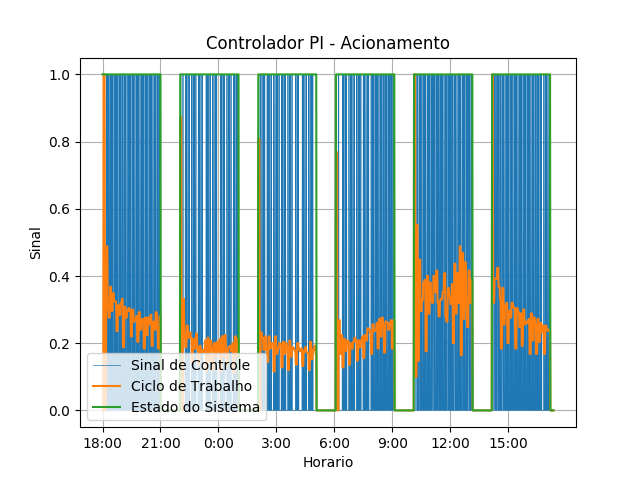
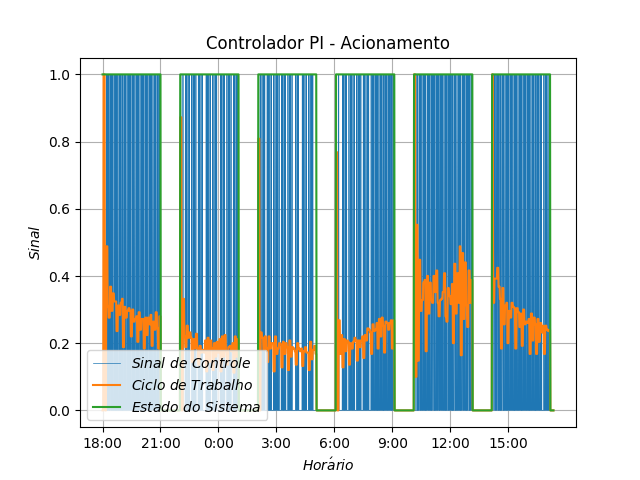
Graficos PI sem perturbacao 24 horas

Changed region(s): [[0.1562, 0.7188, 0.4375, 0.875], [0.4688, 0.9375, 0.5625, 1.0], [0.0312, 0.4688, 0.0625, 0.5625]]

diff --git a/Integracao/plotlib.py b/Integracao/plotlib.py
@@ -227,16 +227,18 @@ def plotModel (database, name, controllerType):
     if(controllerType != 0):
         for i in range(len(tempExternal)):
             tempE = tempExternal[i]
+            isOnNow = isOn[i]
             tempL = tempLara[i]
             e = error[i]
             tempR = tempMeetingRoom[i]
             
-            if(tempE > 23):
-                integralE = integralE + (tempE - 23)  
+            if(isOnNow):
+                if(tempE > 23):
+                    integralE = integralE + (tempE - 23)  
+                    
+                if(tempL > 23):
+                    integralL = integralL + (tempL - 23)
                 
-            if(tempL > 23):
-                integralL = integralL + (tempL - 23)
-            
             if(reference[i] == 23):
                 if(e > 0):
                     integralError = integralError + e
@@ -314,7 +316,7 @@ def plotModel (database, name, controllerType):
     plt.figure()
     plt.plot(dateTime[1:], tempLara[1:])
     plt.plot(dateTime[1:], tempExternal[1:])
-    plt.legend((r"$Temperatura\ da\ Sala\ Vizinha$", r"$Temperatura\ Externa$"), loc='lower right')
+    plt.legend((r"$Temperatura\ da\ Sala\ Vizinha$", r"$Temperatura\ Externa$"), loc='upper left')
     plt.title(title + " - Perturbações de Temperaturas".decode("utf-8"))
     plt.ylabel(r"$Temperatura\ (^o C)$")
     plt.xlabel(r"$Hor\'ario$")
@@ -347,10 +349,11 @@ def plotModel (database, name, controllerType):
         plt.show()
         
         plt.figure()
-        plt.plot(dateTime[1:], compressorSignal[1:])
+        plt.plot(dateTime[1:], compressorSignal[1:], linewidth = 0.5)
         plt.plot(dateTime[1:], dutyCycle[1:])
+        plt.plot(dateTime[1:], isOn[1:])
         plt.title(title + " - Acionamento")
-        plt.legend((r"$Sinal\ de\ Controle$", r"$Ciclo\ de\ Trabalho$"), loc='lower left')
+        plt.legend((r"$Sinal\ de\ Controle$", r"$Ciclo\ de\ Trabalho$", r"$Estado\ do\ Sistema$"), loc='lower left')
         plt.ylabel(r"$Sinal$")
         plt.xlabel(r"$Hor\'ario$")
         plt.xticks(range(0, cont,  170), dateTimeClean)

diff --git a/Integracao/plots.py b/Integracao/plots.py
@@ -9,7 +9,7 @@ from sqlitelib import *
 # 1 -> Liga-Desliga
 # 2 -> PI
 # 3 -> Antecipativo
-controllerType = 1
+controllerType = 2
 
 # Identificacao
 # name = '2018-10-12 15:44:53'
@@ -25,7 +25,7 @@ controllerType = 1
 # name = '2018-10-22 21:40:40'
 # name = '2018-11-03_19:17:43'
 # name = '2018-11-04 19:48:08'
-name = '2018-11-05 22:47:36' # OFICIAL SEM PERTURBACAO
+#name = '2018-11-05 22:47:36' # OFICIAL SEM PERTURBACAO
 #name = '2018-11-20_09-56-07_01'
 # name = '2018-11-21_09-44-52_01'
 #name = '2018-11-05_22-47-36'
@@ -34,13 +34,13 @@ name = '2018-11-05 22:47:36' # OFICIAL SEM PERTURBACAO
 # name = '2018-10-29 22:16:39'
 # name = '2018-10-30 12:02:54'
 # name = '2018-10-31 10:57:30 -FIM'
-# name = '2018-11-02 18:40:37' # OFICIAL SEM PERTURBACAO
+name = '2018-11-02 18:40:37' # OFICIAL SEM PERTURBACAO
 # name = '2018-11-05 22:47:36'
 # name = '2018-11-09_09-55-06' # OFICIAL COM PERTURBACAO
 #name = '2018-11-22_09-30-11'
 # name = '2018-11-23_09-51-38' #8 HORAS
 # name = '2018-11-25_09-52-37' # 8 horas dia frio
-#name = '2018-11-26_09-32-43_03'
+#name = '2018-11-26_09-32-43_04'
 
 #Antecipativo
 # name = '2018-11-10_12-11-55'
